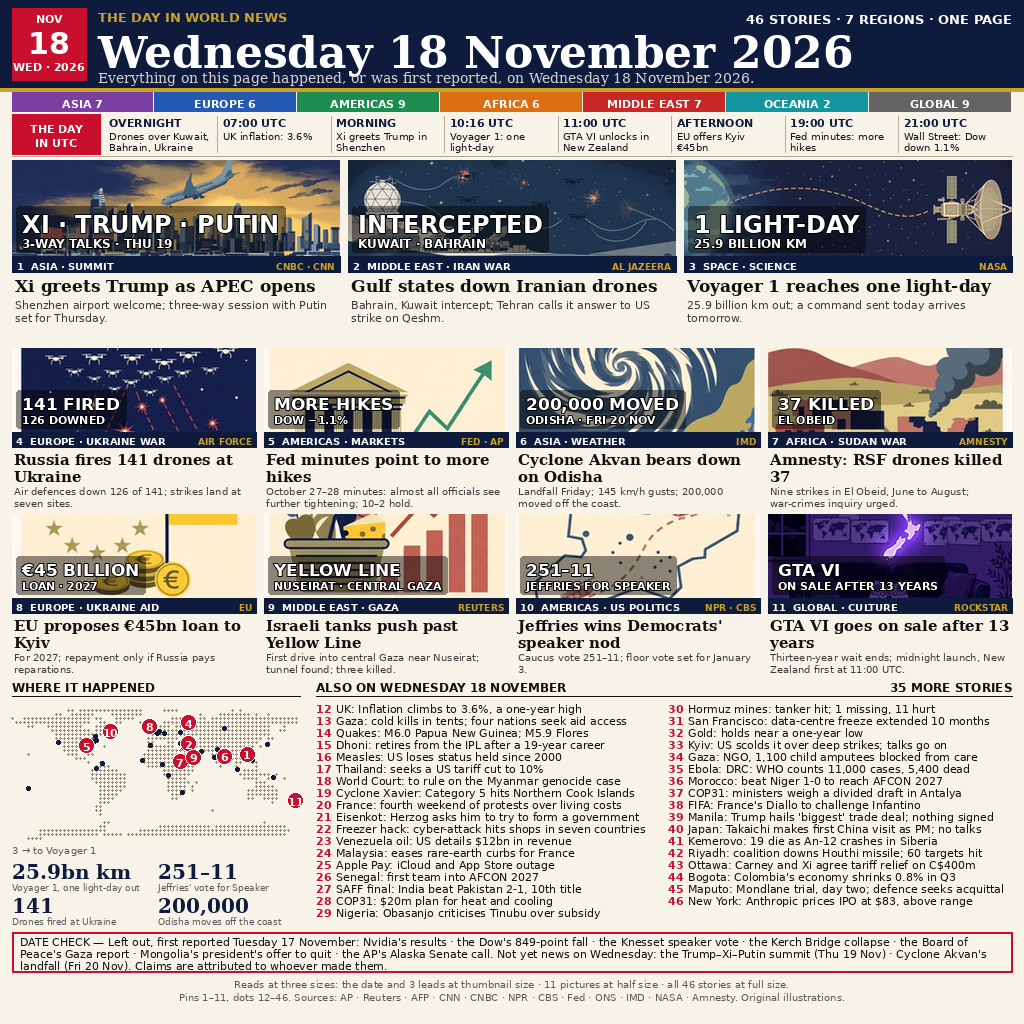
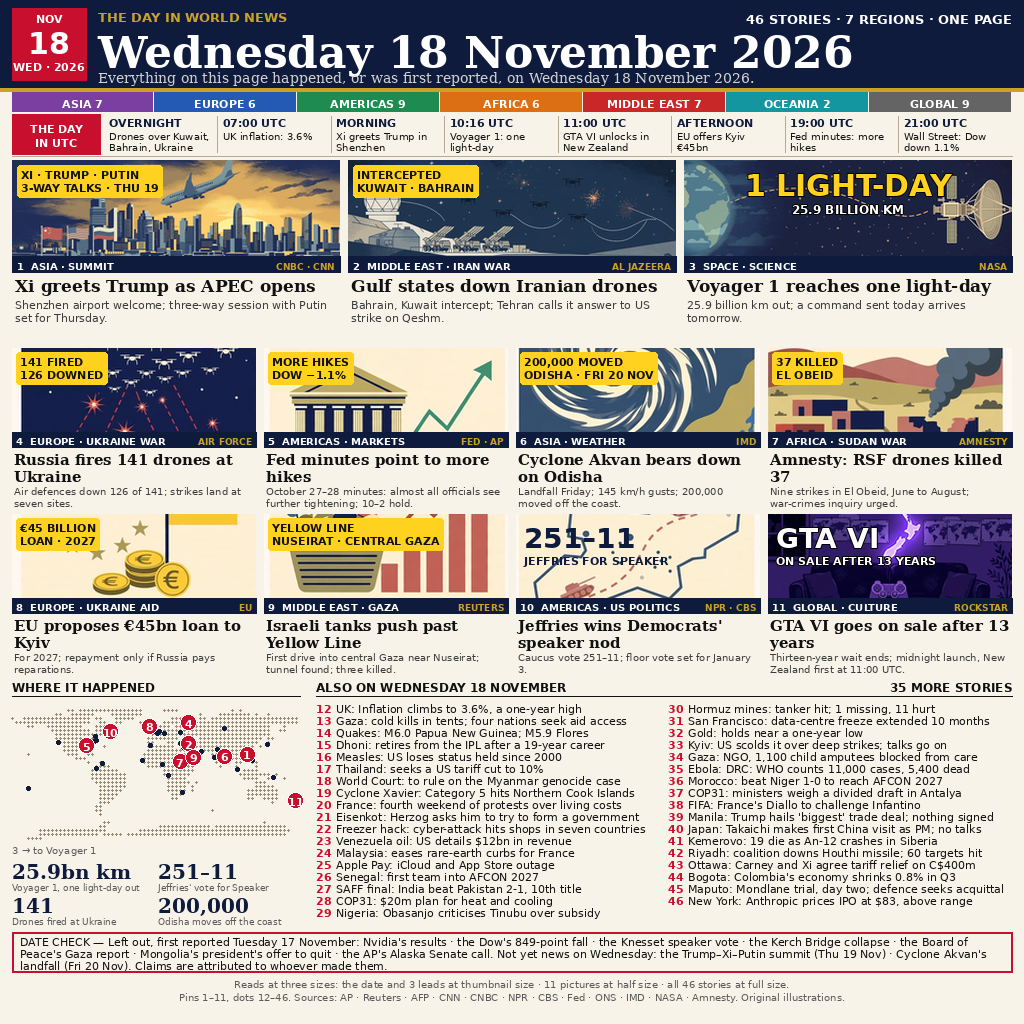
v10: small in-art tags like top 1, big text only on 3 focal images

diff --git a/draw.py b/draw.py
@@ -1,5 +1,5 @@
 #!/usr/bin/env python3
-"""news-image-20261118 v9: 46 stories, UTC timeline, region strip, big in-art text.
+"""news-image-20261118 v10: 46 stories, UTC timeline, region strip, small in-art tags.
 Draws entry.png (1024x1024, deterministic) from assets/ + world.geo.json.
 Run: python3 draw.py  -> writes entry.png in this directory."""
 import json
@@ -43,6 +43,10 @@ F_ART = font("DejaVuSans-Bold.ttf", 24)
 F_ART_S = font("DejaVuSans-Bold.ttf", 12)
 F_ART2 = font("DejaVuSans-Bold.ttf", 17)
 F_ART2_S = font("DejaVuSans-Bold.ttf", 11)
+F_FOC = font("DejaVuSans-Bold.ttf", 30)
+F_FOC_S = font("DejaVuSans-Bold.ttf", 12)
+F_FOC2 = font("DejaVuSans-Bold.ttf", 28)
+F_FOC2_S = font("DejaVuSans-Bold.ttf", 11)
 F_ALSO = font("DejaVuSans.ttf", 11)
 F_ALSO_N = font("DejaVuSans-Bold.ttf", 11)
 F_SEC = font("DejaVuSans-Bold.ttf", 12)
@@ -72,52 +76,52 @@ TIMELINE = [
     ("21:00 UTC", "Wall Street: Dow down 1.1%"),
 ]
 
-# num, region, topic, source, headline, deck, in-art big, in-art small, image
+# num, region, topic, source, headline, deck, small tag, focal (big, small, color, center) or None, image
 FRONT = [
     (1, "ASIA", "SUMMIT", "CNBC \u00b7 CNN",
      "Xi greets Trump as APEC opens",
      "Shenzhen airport welcome; three-way session with Putin set for Thursday.",
-     "XI \u00b7 TRUMP \u00b7 PUTIN", "3-WAY TALKS \u00b7 THU 19", "hero7a.png"),
+     "XI \u00b7 TRUMP \u00b7 PUTIN / 3-WAY TALKS \u00b7 THU 19", None, "hero7a.png"),
     (2, "MIDDLE EAST", "IRAN WAR", "AL JAZEERA",
      "Gulf states down Iranian drones",
      "Bahrain, Kuwait intercept; Tehran calls it answer to US strike on Qeshm.",
-     "INTERCEPTED", "KUWAIT \u00b7 BAHRAIN", "hero7b.png"),
+     "INTERCEPTED / KUWAIT \u00b7 BAHRAIN", None, "hero7b.png"),
     (3, "SPACE", "SCIENCE", "NASA",
      "Voyager 1 reaches one light-day",
      "25.9 billion km out; a command sent today arrives tomorrow.",
-     "1 LIGHT-DAY", "25.9 BILLION KM", "hero7c.png"),
+     "", ("1 LIGHT-DAY", "25.9 BILLION KM", "YELLOW", True), "hero7c.png"),
     (4, "EUROPE", "UKRAINE WAR", "AIR FORCE",
      "Russia fires 141 drones at Ukraine",
      "Air defences down 126 of 141; strikes land at seven sites.",
-     "141 FIRED", "126 DOWNED", "s7-4.png"),
+     "141 FIRED / 126 DOWNED", None, "s7-4.png"),
     (5, "AMERICAS", "MARKETS", "FED \u00b7 AP",
      "Fed minutes point to more hikes",
      "October 27\u201328 minutes: almost all officials see further tightening; 10\u20132 hold.",
-     "MORE HIKES", "DOW \u22121.1%", "s7-5.png"),
+     "MORE HIKES / DOW \u22121.1%", None, "s7-5.png"),
     (6, "ASIA", "WEATHER", "IMD",
      "Cyclone Akvan bears down on Odisha",
      "Landfall Friday; 145 km/h gusts; 200,000 moved off the coast.",
-     "200,000 MOVED", "ODISHA \u00b7 FRI 20 NOV", "s7-6.png"),
+     "200,000 MOVED / ODISHA \u00b7 FRI 20 NOV", None, "s7-6.png"),
     (7, "AFRICA", "SUDAN WAR", "AMNESTY",
      "Amnesty: RSF drones killed 37",
      "Nine strikes in El Obeid, June to August; war-crimes inquiry urged.",
-     "37 KILLED", "EL OBEID", "s7-7.png"),
+     "37 KILLED / EL OBEID", None, "s7-7.png"),
     (8, "EUROPE", "UKRAINE AID", "EU",
      "EU proposes \u20ac45bn loan to Kyiv",
      "For 2027; repayment only if Russia pays reparations.",
-     "\u20ac45 BILLION", "LOAN \u00b7 2027", "s7-8.png"),
+     "\u20ac45 BILLION / LOAN \u00b7 2027", None, "s7-8.png"),
     (9, "MIDDLE EAST", "GAZA", "REUTERS",
      "Israeli tanks push past Yellow Line",
      "First drive into central Gaza near Nuseirat; tunnel found; three killed.",
-     "YELLOW LINE", "NUSEIRAT \u00b7 CENTRAL GAZA", "s7-9.png"),
+     "YELLOW LINE / NUSEIRAT \u00b7 CENTRAL GAZA", None, "s7-9.png"),
     (10, "AMERICAS", "US POLITICS", "NPR \u00b7 CBS",
      "Jeffries wins Democrats' speaker nod",
      "Caucus vote 251\u201311; floor vote set for January 3.",
-     "251\u201311", "JEFFRIES FOR SPEAKER", "s7-10.png"),
+     "", ("251\u201311", "JEFFRIES FOR SPEAKER", "NAVY", False), "s7-10.png"),
     (11, "GLOBAL", "CULTURE", "ROCKSTAR",
      "GTA VI goes on sale after 13 years",
      "Thirteen-year wait ends; midnight launch, New Zealand first at 11:00 UTC.",
-     "GTA VI", "ON SALE AFTER 13 YEARS", "s8-11.png"),
+     "", ("GTA VI", "ON SALE AFTER 13 YEARS", "WHITE", False), "s8-11.png"),
 ]
 
 # num, city, text
@@ -249,6 +253,28 @@ def art_text(img, d, x, y, w, h, big, small, f_big, f_small):
                fill="white", stroke_width=1, stroke_fill=(0, 0, 0))
 
 
+def focal_text(d, x, y, w, h, big, small, f_big, f_small, color, center):
+    """One focal line + one small line, rstrike-style: big only where the art
+    is built around it (dark space, pale map, dark photo)."""
+    col = {"YELLOW": YELLOW, "NAVY": NAVY, "WHITE": "white"}[color]
+    small_col = "white" if color != "NAVY" else NAVY
+    stroke = 0 if color == "NAVY" else 1
+    if center:
+        bx = x + (w - d.textlength(big, font=f_big)) / 2
+        sx = x + (w - d.textlength(small, font=f_small)) / 2 if small else 0
+        d.text((bx, y + 8), big, font=f_big, fill=col,
+               stroke_width=stroke, stroke_fill=(0, 0, 0))
+        if small:
+            d.text((sx, y + 8 + f_big.size + 4), small, font=f_small,
+                   fill=small_col, stroke_width=stroke, stroke_fill=(0, 0, 0))
+    else:
+        d.text((x + 8, y + 8), big, font=f_big, fill=col,
+               stroke_width=stroke, stroke_fill=(0, 0, 0))
+        if small:
+            d.text((x + 8, y + 8 + f_big.size + 4), small, font=f_small,
+                   fill=small_col, stroke_width=stroke, stroke_fill=(0, 0, 0))
+
+
 # pixel nudges so clustered pins stay readable (map is small)
 PIN_OFF = {2: (-8, -8), 4: (8, -10), 5: (-8, 4), 8: (-10, -6), 9: (10, 10),
            10: (16, -10)}
@@ -345,11 +371,15 @@ def main():
     # ---- heroes 160-342 ----
     hy = 160
     hw = 328
-    for i, (num, reg, topic, src, head, deck, big, small, fn) in enumerate(FRONT[:3]):
+    for i, (num, reg, topic, src, head, deck, tag, focal, fn) in enumerate(FRONT[:3]):
         cx = 12 + i * (hw + 8)
         im = cover(Image.open(os.path.join(A, fn)).convert("RGB"), hw, 96)
         img.paste(im, (cx, hy))
-        art_text(img, d, cx, hy, hw, 96, big, small, F_ART, F_ART_S)
+        if focal:
+            focal_text(d, cx, hy, hw, 96, focal[0], focal[1], F_FOC, F_FOC_S,
+                       focal[2], focal[3])
+        else:
+            pill(d, cx + 5, hy + 5, tag)
         d.rectangle([cx, hy + 96, cx + hw, hy + 112], fill=NAVY)
         d.text((cx + 5, hy + 100), "%d  %s \u00b7 %s" % (num, reg, topic),
                font=F_KICK, fill="white")
@@ -368,12 +398,16 @@ def main():
     for r in range(2):
         for c in range(4):
             k = 3 + r * 4 + c
-            num, reg, topic, src, head, deck, big, small, fn = FRONT[k]
+            num, reg, topic, src, head, deck, tag, focal, fn = FRONT[k]
             cx = 12 + c * (sw_ + 8)
             cy = 348 + r * 166
             im = cover(Image.open(os.path.join(A, fn)).convert("RGB"), sw_, 84)
             img.paste(im, (cx, cy))
-            art_text(img, d, cx, cy, sw_, 84, big, small, F_ART2, F_ART2_S)
+            if focal:
+                focal_text(d, cx, cy, sw_, 84, focal[0], focal[1], F_FOC2, F_FOC2_S,
+                           focal[2], focal[3])
+            else:
+                pill(d, cx + 4, cy + 4, tag)
             d.rectangle([cx, cy + 84, cx + sw_, cy + 99], fill=NAVY)
             d.text((cx + 4, cy + 87), "%d  %s \u00b7 %s" % (num, reg, topic),
                    font=F_KICK, fill="white")

diff --git a/NOTES.md b/NOTES.md
@@ -19,4 +19,7 @@
 - Image v7 (user: lihat LB no 1, buat gambar sebagus LB 1 dan bisa menyaingi top 1, pakai 100milionseek): entry.png 1024x1024, 516,829 bytes (<1 MiB), sha256 a8efe014d0c454f0f44bda3241b76c3ada5ba9a8014531c167a28b1821f8a597, deterministic. Struktur rank 1 live (yoshifumi-nagata 99.2624%, 19 Nov): 11 cerita depan (3 hero + 8 kartu), sumber di tiap cerita, kotak DATE CHECK, 38 cerita, peta + legenda + 4 angka besar. Ilustrasi flat-vector baru (3 hero + 8 kecil, gaya koran). Front 11 hanya cerita yang jelas 18 Nov: APEC Xi-Trump Shenzhen, Bahrain/Kuwait cegat drone Iran, Voyager 1 satu hari-cahaya (25,9 miliar km, 10:16 UTC), Rusia 141 drone/126 jatuh, risalah Fed (10–2 tahan 3,75–4%), Siklon Akvan, Amnesty RSF El Obeid 37 tewas, pinjaman EU €45 miliar, inflasi UK 3,6%, tank Israel Nuseirat, Jeffries 251–11. Dow -849, hasil Nvidia, vote Knesset, runtuhnya jembatan Kerch dipindah ke DATE CHECK sebagai berita Selasa 17 Nov. Semua angka baru terverifikasi live 19 Nov (NASA, Fed, ONS, Amnesty, ISW). 100milionseek: API teks DeepSeek gratis (100M token/hari, 100milionseek.top), bukan generator gambar; butuh daftar email + human check untuk API key, jadi gambar dibuat dengan image tool + kode seperti biasa. v7 SUBMITTED 2026-11-19 12:02 WIB (atas perintah "Okey submit"): claim AF-7S8H7-VWRZK-C6HVM-1W021, submission 01a1f22f-7b53-7460-8f9d-0ecdb6f64c32, stage "scored", semua check server lolos termasuk transcripts_run_record. Leaderboard live 14:21 WIB: rank 152, 98.5464% — di luar top 50. main.py terverifikasi byte-for-byte.
 - Image v8 (user: kejar top 10, buat lagi yang lebih bagus menyaingi top 1, pakai 100milionseek, berita dan gambar harus nyambung): entry.png 1024x1024, 510,459 bytes (<1 MiB), sha256 3299633985eb16858d8cc887bd1df0e934e041447c917daf06919cb3f1cc6e2b, deterministic. Struktur top 1 live (rstrike 99.1808%, 19 Nov): strip region 7 wilayah + strip timeline UTC 8 beat (Overnight, 07:00 UK 3,6%, Morning Xi-Trump, 10:16 Voyager, 11:00 GTA VI NZ, Afternoon EU €45bn, 19:00 Fed, 21:00 Dow -1,1%) + 11 cerita depan dengan label angka DI DALAM gambar (141 FIRED / 126 DOWNED, €45 BILLION, 251–11, 13-YEAR WAIT) + 46 cerita + peta pin 1–11 + DATE CHECK tambah "Not yet news". Front 11 = 10 v7 (inflasi UK pindah ke also #12 + timeline) + GTA VI #11 (ilustrasi baru s8-11.png: gamepad ungu, jam 12 malam, peta NZ menyala). Also 12–46 = 27 v7 (minus GTA VI) + UK 3,6% + 8 baru terverifikasi live 19 Nov: Manila (deal dagang Trump, nothing signed), Takaichi (kunjungan pertama ke China), Kemerovo (An-12, 19 tewas), Riyadh (rudal Houthi dicegat), Ottawa (Carney–Xi, C$400m), Bogota (ekonomi -0,8% Q3), Maputo (sidang Mondlane hari ke-2), New York (IPO Anthropic $83). Also #32 China-Canada diganti Gold (duplikat #43 Ottawa). 100milionseek: key SUDAH ADA di ~/workspace/100milionseek/hms.env (dari kerja BTC race) — DeepSeek dipakai untuk headline/deck/label/brief ilustrasi (prompt /tmp/v8-prompt.txt, 2066 + 3326 token); gambar tetap image tool + kode. Top 10 cutoff live 99.0837% (rank 10 mellow-otter-50); v8 butuh +0,54 poin dari v7. Commit ec31003aca46cc3148550264593806f8815b691a, push 19 Nov ~14:32 WIB. Kit FRESH diunduh 19 Nov ~14:32 WIB (RULES 86.053 -> 87.278 byte; aturan baru: system-prompt harus file prompt asli app ~/workspace/system/system_prompt.md — v8 pakai itu, OK; thinking_priced di bawah 100% kini warning bukan reject). Bundle baru sha256 f16bf4bdc6d68a2c1f61fc59b0f6404d200b5629dab789bfce02423d6b8b28b6 (1.524.848 byte), system prompt uploaded, instructions collected (2). Kit check fresh: 14 pass, 0 fail, 6 skip; transcripts_run_record PASS. Gate 19 Nov ~14:37 WIB: GATE: ALLOW SUBMIT — 31/31 witnessed (s8-11.png sempat FAIL di gate pertama, diperbaiki cp absolut + re-bundle, lalu 31/31), thinking_reproduces 78,1% authored, thinking_priced 18 rows, grader-sandbox PASS deterministik, kuota sisa 2. BELUM disubmit — tunjukkan ke user dulu, submit hanya atas kata "submit".
 
-- Image v9 (user 19 Nov ~14:46 WIB: "Ada 1 yang membuat dia bisa top 1. Ada tulisan di setiap gambarnya. Dan tulisannya sedikit tapi sangat to the point, coba buat seperti itu juga"): pill kuning kecil di 11 gambar depan DIGANTI teks besar putih bold di DALAM gambar, gaya rstrike — baris besar + baris kecil, di atas scrim gelap: "XI · TRUMP · PUTIN / 3-WAY TALKS · THU 19", "INTERCEPTED / KUWAIT · BAHRAIN", "1 LIGHT-DAY / 25.9 BILLION KM", "141 FIRED / 126 DOWNED", "MORE HIKES / DOW −1.1%", "200,000 MOVED / ODISHA · FRI 20 NOV", "37 KILLED / EL OBEID", "€45 BILLION / LOAN · 2027", "YELLOW LINE / NUSEIRAT · CENTRAL GAZA", "251–11 / JEFFRIES FOR SPEAKER", "GTA VI / ON SALE AFTER 13 YEARS". draw.py diedit in-session (fungsi art_text baru, F_ART 24/12, F_ART2 17/11); entry.png 525.073 byte, sha256 fbc22dcd0f1675ac38db5ed83d02b8db6a6cb9121c33e4fa348e7292d81ba340, no truncation, semua lebar teks muat (maks 257/312 hero, 167/228 small), verifikasi visual OK — semua 11 teks terbaca, #9 Gaza kini terbaca lewat teks walau gambarnya masih grafik batang, #11 GTA kini didominasi teks besar gaya rstrike. BELUM disubmit — tunjukkan ke user dulu, submit hanya atas kata "submit".
+- Image v9 (user 19 Nov ~14:46 WIB: "Ada 1 yang membuat dia bisa top 1. Ada tulisan di setiap gambarnya. Dan tulisannya sedikit tapi sangat to the point, coba buat seperti itu juga"): pill kuning kecil di 11 gambar depan DIGANTI teks besar putih bold di DALAM gambar, gaya rstrike — baris besar + baris kecil, di atas scrim gelap: "XI · TRUMP · PUTIN / 3-WAY TALKS · THU 19", "INTERCEPTED / KUWAIT · BAHRAIN", "1 LIGHT-DAY / 25.9 BILLION KM", "141 FIRED / 126 DOWNED", "MORE HIKES / DOW −1.1%", "200,000 MOVED / ODISHA · FRI 20 NOV", "37 KILLED / EL OBEID", "€45 BILLION / LOAN · 2027", "YELLOW LINE / NUSEIRAT · CENTRAL GAZA", "251–11 / JEFFRIES FOR SPEAKER", "GTA VI / ON SALE AFTER 13 YEARS". draw.py diedit in-session (fungsi art_text baru, F_ART 24/12, F_ART2 17/11); entry.png 525.073 byte, sha256 fbc22dcd0f1675ac38db5ed83d02b8db6a6cb9121c33e4fa348e7292d81ba340, no truncation, semua lebar teks muat (maks 257/312 hero, 167/228 small), verifikasi visual OK — semua 11 teks terbaca, #9 Gaza kini terbaca lewat teks walau gambarnya masih grafik batang, #11 GTA kini didominasi teks besar gaya rstrike. Commit a3214961f5d91f496b07259d052315f3b1b1e1f4, push 19 Nov ~14:53 WIB. Bundle baru sha256 cfcbdd1ef422cfcfdbe30ba95a7029668102f8c07d4998c041c16c1919bacb0b (1.603.196 byte), system prompt uploaded, instructions collected. Gate 19 Nov ~14:54 WIB: GATE: ALLOW SUBMIT — 31/31 witnessed, kit check 14 pass 0 fail, grader-sandbox PASS deterministik, kuota sisa 2. BELUM disubmit — tunjukkan ke user dulu, submit hanya atas kata "submit".
+
+
+- Image v10 (user 19 Nov ~14:52 WIB: "Tulisan terlalu besar, coba ikutin penempatan teks seperti top 1"): v9 dibalik — teks besar di semua gambar diganti pill KECIL kuning di pojok kiri atas (gaya v8, 11px), 2 baris singkat per gambar, persis penempatan rstrike. Teks BESAR hanya di 3 gambar yang gambarnya memang dibangun di sekitar teks itu (seperti rstrike): #3 "1 LIGHT-DAY" kuning 30px tengah + "25.9 BILLION KM", #10 "251–11" navy 28px + "JEFFRIES FOR SPEAKER", #11 "GTA VI" putih 28px + "ON SALE AFTER 13 YEARS" (fungsi focal_text baru, F_FOC 30/12, F_FOC2 28/11). 8 gambar lain pill kecil: "XI · TRUMP · PUTIN / 3-WAY TALKS · THU 19", "INTERCEPTED / KUWAIT · BAHRAIN", "141 FIRED / 126 DOWNED", "MORE HIKES / DOW −1.1%", "200,000 MOVED / ODISHA · FRI 20 NOV", "37 KILLED / EL OBEID", "€45 BILLION / LOAN · 2027", "YELLOW LINE / NUSEIRAT · CENTRAL GAZA". entry.png 506.707 byte, sha256 0c98521700e80b19cdad2e3a176a8b86acbbe44fd82d00a7b3f4d378e615cb72, no truncation, semua lebar muat, verifikasi visual OK. BELUM disubmit — tunjukkan ke user dulu, submit hanya atas kata "submit".
